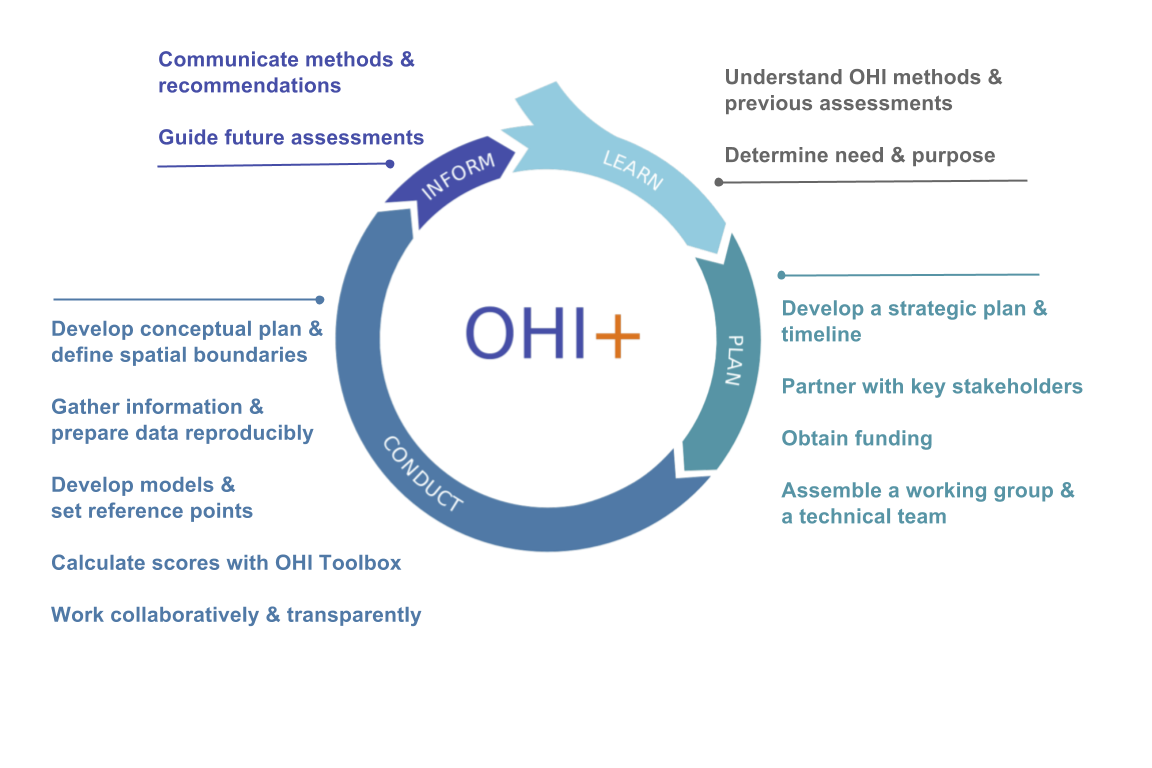
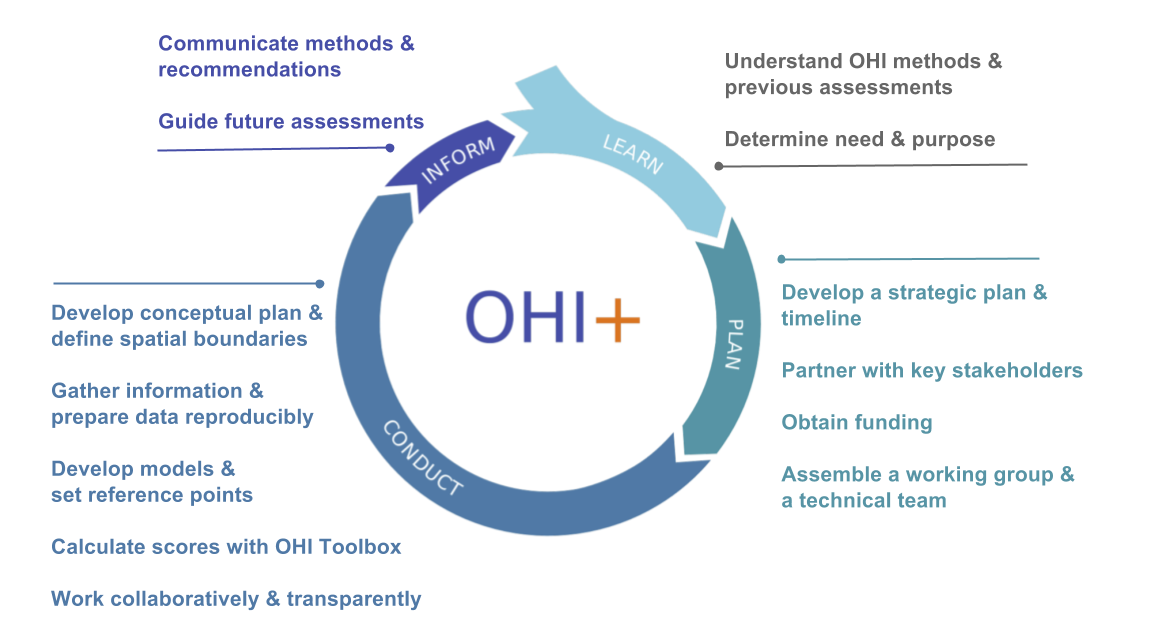
update spacing

diff --git a/_posts/2017-02-01-Interested-in-leading.md b/_posts/2017-02-01-Interested-in-leading.md
@@ -13,11 +13,12 @@ category: news
 
 <br>
 
-There are four phases of an OHI assessment: Learn, Plan, Conduct, and Inform. Read about the [OHI+ Phases](http://ohi-science.org/phases/)**, to help guide you to think think about and plan for before you get started. 
+There are four phases of an OHI assessment: Learn, Plan, Conduct, and Inform. Read about the [OHI+ Phases](http://ohi-science.org/phases/) to help guide you. You can also download the [OHI+ FactSheet](http://ohi-science.org/resources/downloads/). 
 
 ![](../assets/downloads/other/OHI+phases_milestones.png)
 
-Additionally, you can download the **OHI+ FactSheet** from the [Downloads page](http://ohi-science.org/resources/downloads/).  
+<br>
+
 We would also recommend reading [***"Best practices for assessing ocean health in multiple contexts using tailorable frameworks"***](https://peerj.com/articles/1503/) and exploring other [publications](http://ohi-science.org/resources/publications/) and [ongoing assessments](http://ohi-science.org/projects/). 
 
 <br>
